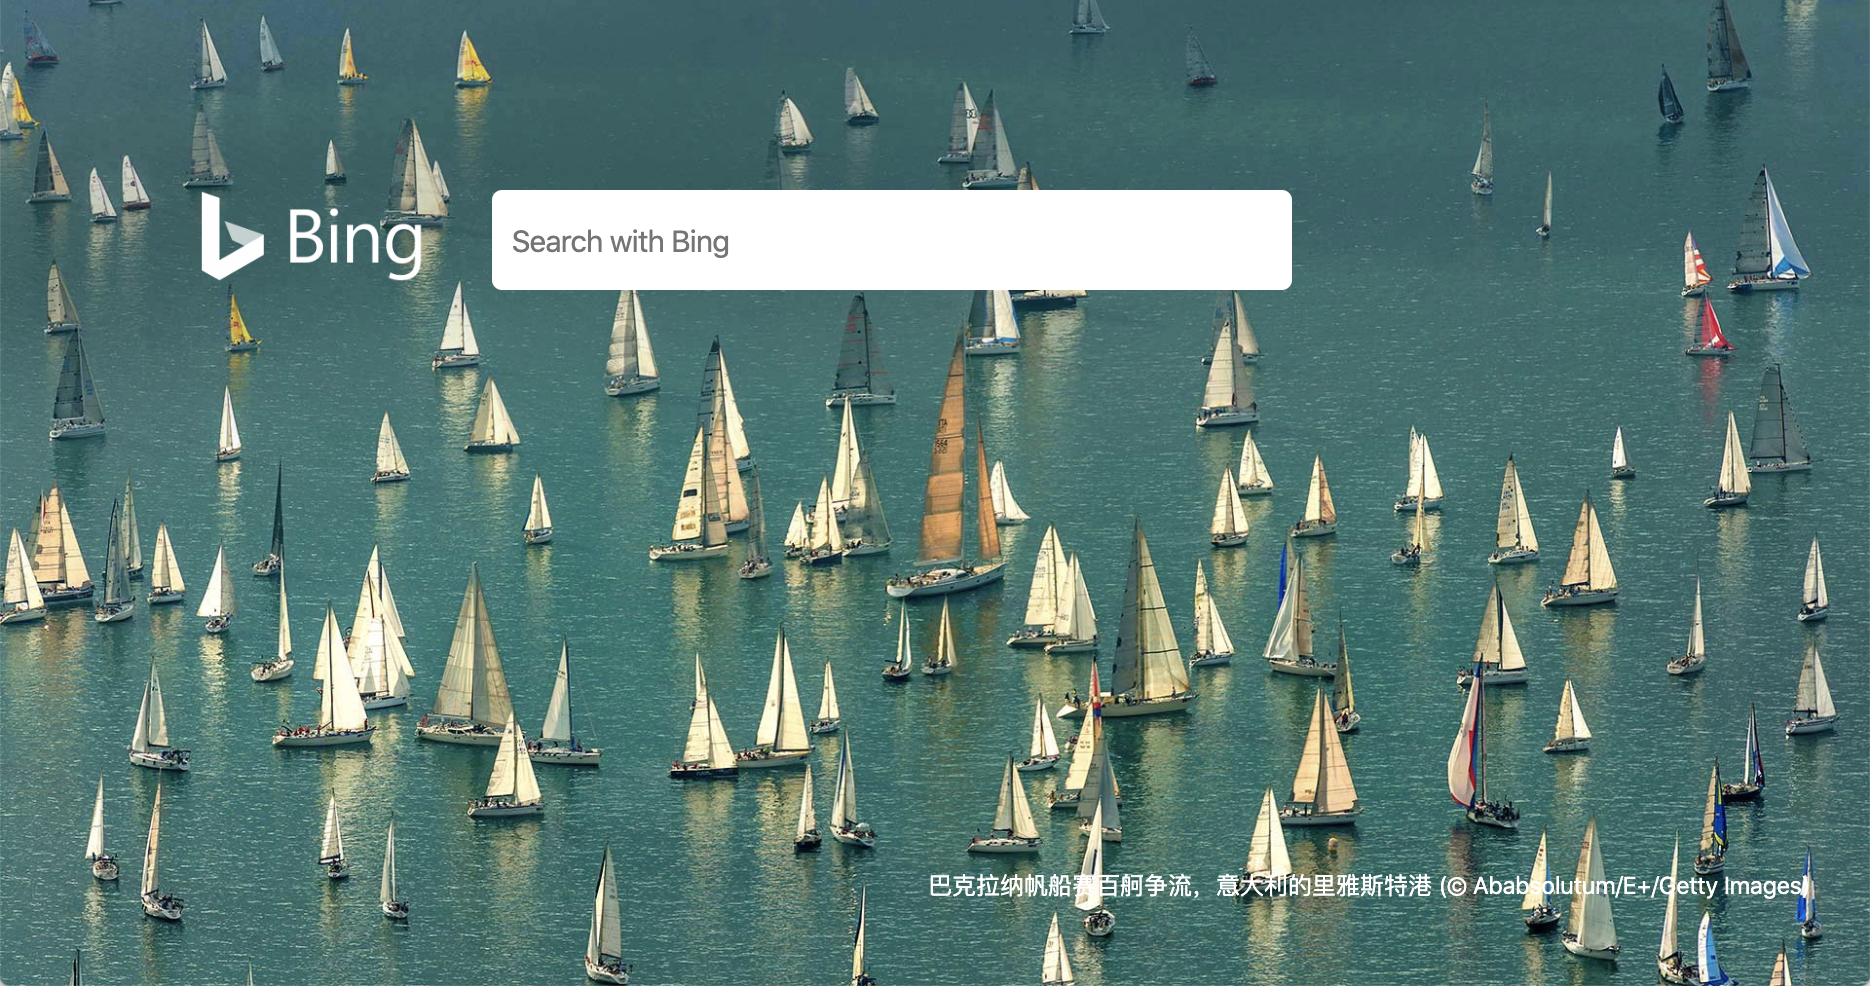
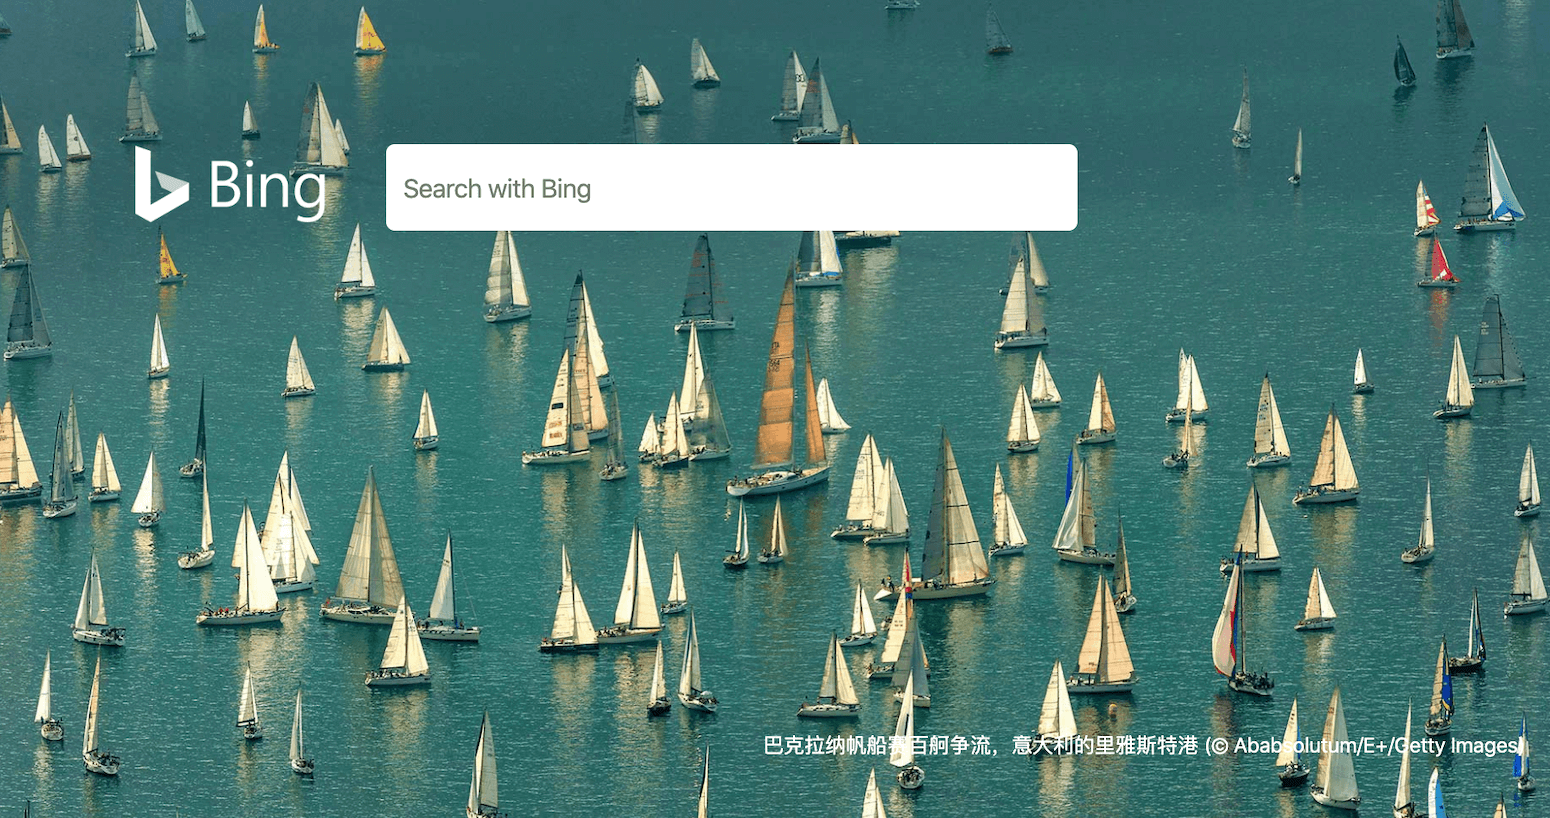
update

diff --git a/extension/script.js b/extension/script.js
@@ -1,5 +1,5 @@
 
-var totalEngines = 5;
+var totalEngines = document.getElementsByClassName('search').length;
 
 function setCookieEngine(name){
 	document.cookie = "engine=" + name + ";expires=2147483647";

diff --git a/extension/blank.html b/extension/blank.html
@@ -5,6 +5,7 @@
   body {
     background-repeat: no-repeat;
     background-size: 100%;
+    background-image: url('./images/john-reign-abarintos-369080-unsplash.jpg');
   }
   .block {
     padding: 10%;

diff --git a/README.md b/README.md
@@ -23,9 +23,7 @@
 
 ## 自定义
 
-修改`blank.html` 文件，可以添加更多搜索引擎。
-
-修改搜索引擎个数后，请修改 `script.js` 顶部的 `totalEngines` 变量为最新个数。
+修改 `blank.html` 文件，可以添加更多搜索引擎。
 
 
 ---
@@ -54,7 +52,6 @@ Click the search engine logo to switch between search engines.
 
 Modify `blank.html` to add new search engines.
 
-Modify the `totalEngines` variable at the top line of `script.js` if you add or delete some search engines.
 
 
 
